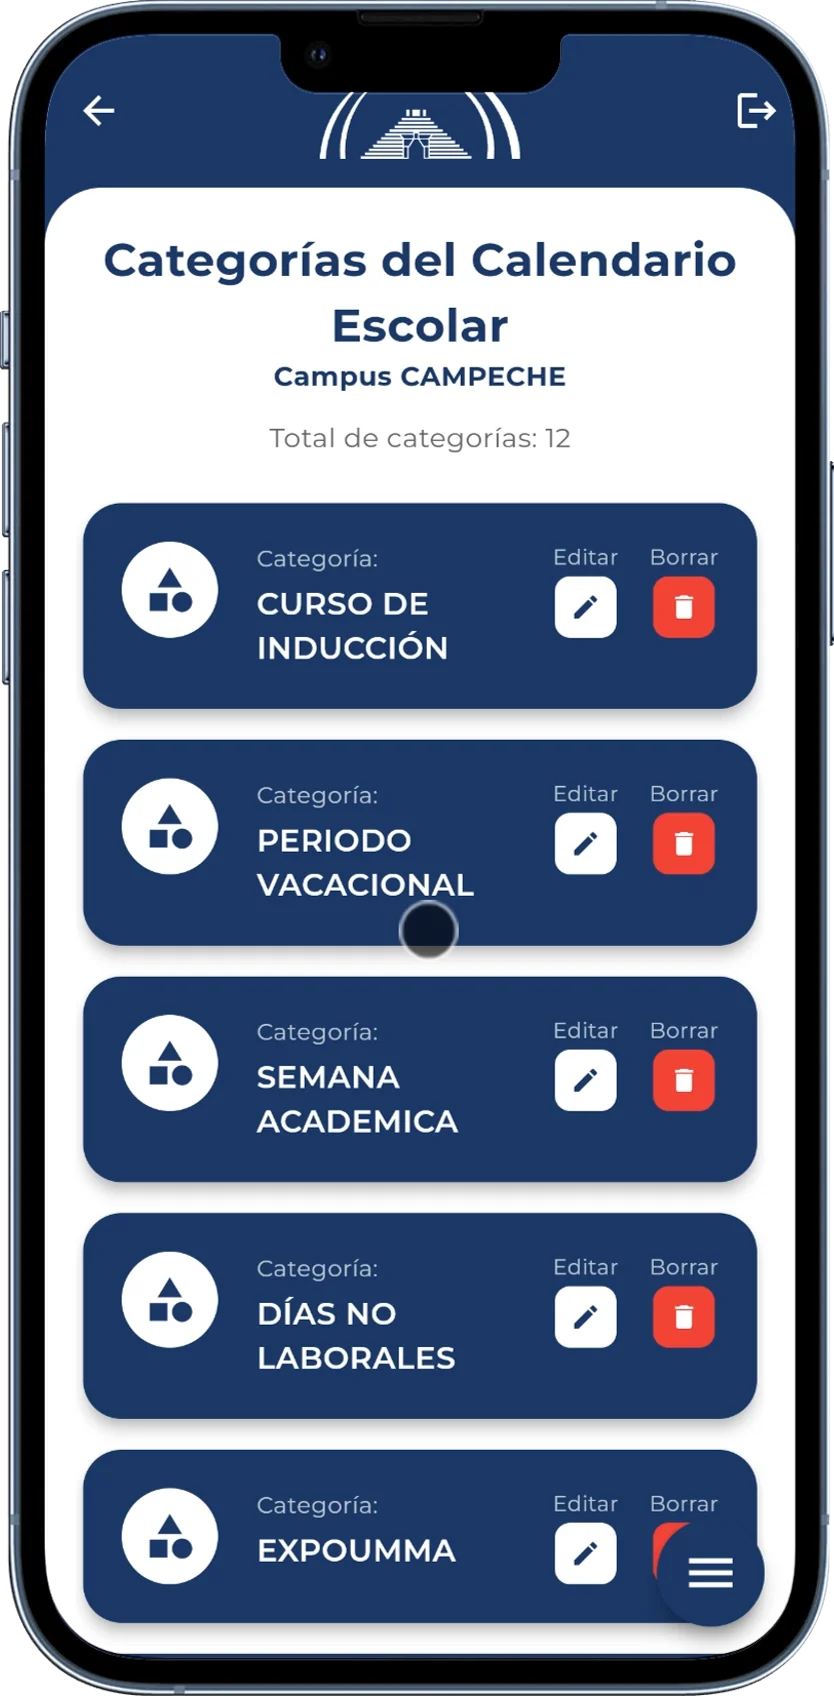
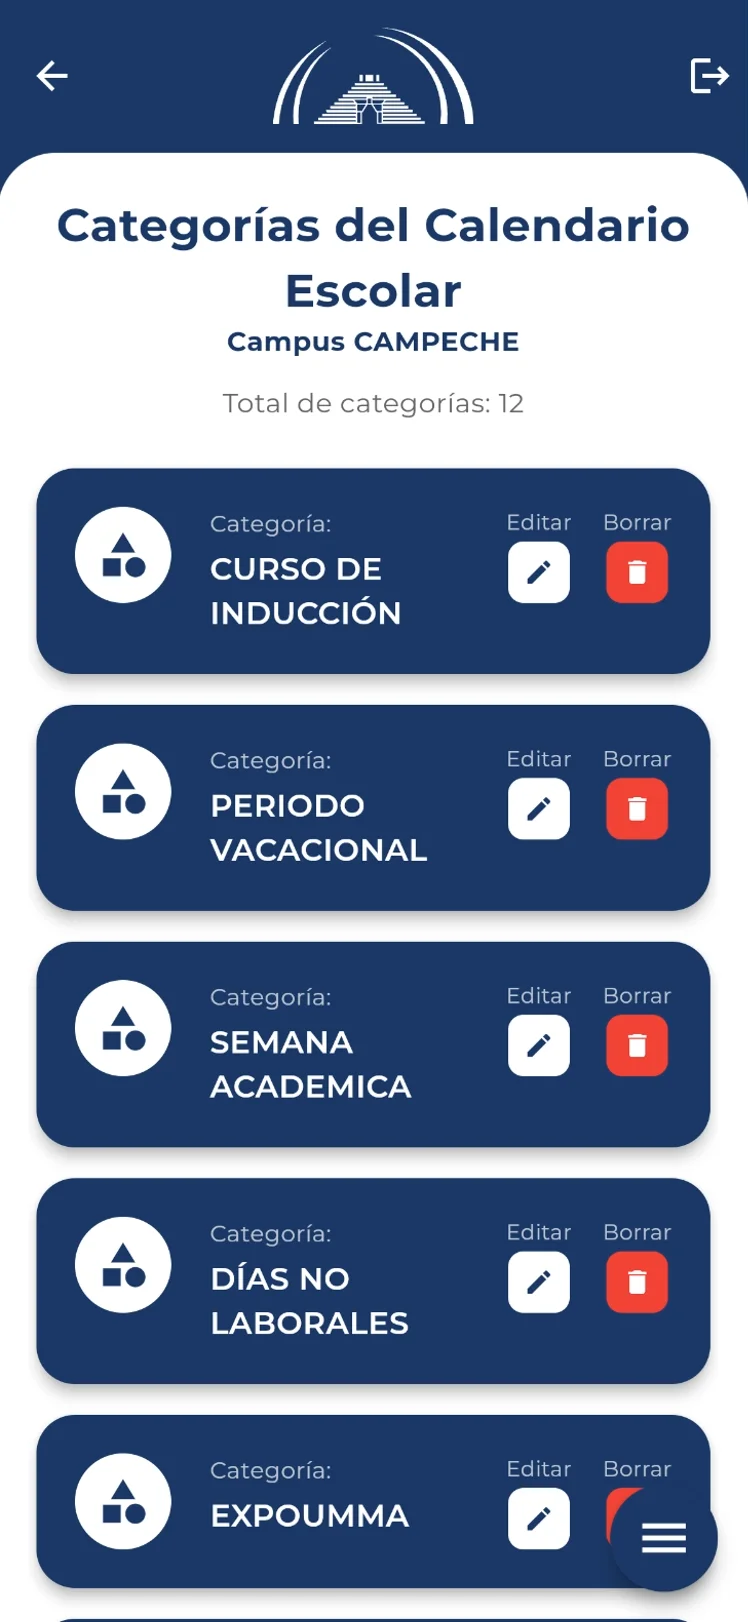
Nuevo modulo

diff --git a/docs/Administrativos/Pase_Vehicular/Añadir_Editar.md b/docs/Administrativos/Pase_Vehicular/Añadir_Editar.md
@@ -3,3 +3,113 @@ title: Añadir/Editar
 hide_table_of_contents: true
 ---
 
+import React, { useState } from 'react';
+import IphoneWrapper from '@site/src/components/IphoneWrapper';
+
+export const ArrowSlider = () => {
+  const [index, setIndex] = useState(0);
+  
+  const media = [
+    { type: 'image', src: '/img/Pase Vehicular/AgregarPase.webp' },
+    { type: 'image', src: '/img/Pase Vehicular/AgregarPase1.webp' },
+
+  ];
+
+  const siguienteImagen = () => {
+    setIndex((prev) => (prev === media.length - 1 ? 0 : prev + 1));
+  };
+
+  const anteriorImagen = () => {
+    setIndex((prev) => (prev === 0 ? media.length - 1 : prev - 1));
+  };
+
+  const botonStyle = {
+    position: 'absolute',
+    top: '50%',
+    transform: 'translateY(-50%)',
+    backgroundColor: 'rgba(0, 0, 0, 0.5)',
+    color: 'white',
+    border: 'none',
+    width: '40px',
+    height: '40px',
+    borderRadius: '50%',
+    cursor: 'pointer',
+    display: 'flex',
+    alignItems: 'center',
+    justifyContent: 'center',
+    zIndex: 10,
+    transition: 'background-color 0.3s ease',
+  };
+
+  const FlechaIzquierda = () => (
+    <svg width="24" height="24" viewBox="0 0 24 24" fill="none" stroke="currentColor" strokeWidth="2" strokeLinecap="round" strokeLinejoin="round"><polyline points="15 18 9 12 15 6"></polyline></svg>
+  );
+
+  const FlechaDerecha = () => (
+    <svg width="24" height="24" viewBox="0 0 24 24" fill="none" stroke="currentColor" strokeWidth="2" strokeLinecap="round" strokeLinejoin="round"><polyline points="9 18 15 12 9 6"></polyline></svg>
+  );
+
+  return (
+    <div style={{ position: 'relative', width: '100%', overflow: 'hidden', borderRadius: '12px' }}>
+      
+      <button 
+        onClick={anteriorImagen} 
+        style={{ ...botonStyle, left: '10px' }}
+        aria-label="Anterior"
+      >
+        <FlechaIzquierda />
+      </button>
+
+      <IphoneWrapper>
+        <img 
+          src={media[index].src} 
+          style={{ width: '100%', height: '100%', objectFit: 'cover' }} 
+          alt="Contenido Cobranza" 
+        />
+      </IphoneWrapper>
+
+      <button 
+        onClick={siguienteImagen} 
+        style={{ ...botonStyle, right: '10px' }}
+        aria-label="Siguiente"
+      >
+        <FlechaDerecha />
+      </button>
+
+      <div style={{ position: 'absolute', bottom: '15px', left: '50%', transform: 'translateX(-50%)', display: 'flex', gap: '8px', zIndex: 10 }}>
+        {media.map((_, i) => (
+          <div key={i} style={{
+            width: '10px',
+            height: '10px',
+            borderRadius: '50%',
+            backgroundColor: i === index ? 'white' : 'rgba(255, 255, 255, 0.5)',
+          }}/>
+        ))}
+      </div>
+    </div>
+  );
+};
+
+<div style={{ display: 'grid', gridTemplateColumns: '1fr 300px', gap: '70px', paddingLeft: '50px', alignItems: 'start' }}>
+
+  <div> 
+
+# Añadir
+
+Este módulo detalla el procedimiento guiado para la **asignación formal de un pase vehicular** a los miembros de la comunidad universitaria. El flujo está optimizado para completarse en un par de pasos sencillos dentro del sistema:
+
+### Requisitos Previos y Flujo de Asignación
+
+* **Registro de Documentación Base:** Antes de iniciar la asignación, es indispensable haber cargado previamente en el sistema los datos validados de la **Identificación Oficial (INE)** y la **Tarjeta de Circulación** del vehículo.
+* **Selección del Rol Institucional:** Con la documentación registrada, se debe definir el **rol del usuario** dentro de la institución (Alumnos, Docentes o Administrativos) para aplicar los criterios y permisos correspondientes.
+* **Generación del Folio Único:** Al confirmar los datos y el rol, el sistema procesa la solicitud y **genera automáticamente un folio único**, vinculando formalmente la unidad al expediente del usuario.
+
+> **Propósito del Módulo:** Garantizar que ninguna unidad ingrese al campus sin la validación previa de documentos y la vinculación a un perfil activo dentro de la institución.
+
+</div>
+
+  <div style={{ width: '300px', position: 'sticky', top: '100px' }}>
+    <ArrowSlider />
+  </div>
+
+</div>

diff --git a/docs/Administrativos/Pase_Vehicular/Panel_Pase.md b/docs/Administrativos/Pase_Vehicular/Panel_Pase.md
@@ -4,5 +4,40 @@ pagination_next: Administrativos/Pase_Vehicular/index
 hide_table_of_contents: true
 ---
 import Link from '@docusaurus/Link';
+import PageLayout from '@site/src/components/PageLayout';
 
-En este apartado se vera como es creacion de los pases vehiculares mediante la solicitacion de su INE personal y su tarjeta de circulacion para asi poder darle de alta y asignarle su propio folio del pase, esto se hace mediante el apartado de <Link to="/docs/Administrativos/Pase_Vehicular/Añadir_Editar" className="link-destacado">Añadir/Crear</Link>, una vez agregado todos los datos, ya podremos visualizar cuales son todos los pases que hay, y si tiene sus documentos a manos y en orden
+<PageLayout>
+
+<div style={{ display: 'flex', flexWrap: 'wrap', gap: '40px', alignItems: 'start' }}>
+
+  {/* 1. IMAGEN PRIMERO: Esto hace que en celular se vea arriba */}
+  <div style={{ flex: '1 1 300px', order: 1 }}>
+    <img 
+      src="/img/Pase Vehicular/PanelPase.webp" 
+      alt="Lista de estudiantes" 
+      style={{ 
+        width: '100%', 
+        borderRadius: '40px',
+        boxShadow: '0 4px 12px rgba(0,0,0,0.15)',
+        marginTop: '20px'
+      }} 
+    />
+  </div>
+
+  {/* 2. TEXTO DESPUÉS: Esto hace que en celular quede abajo */}
+  <div style={{ flex: '2 1 400px', order: 2 }}>
+
+En este apartado se describe el proceso para la **emisión e inscripción de pases vehiculares**, garantizando la validación documental y el control estricto de accesos institucionales.
+
+Para completar el alta de un vehículo, es indispensable solicitar y validar la **Identificación Oficial (INE)** del solicitante y la **Tarjeta de Circulación** vigente de la unidad. El procedimiento se gestiona desde el módulo de <Link to="/docs/Administrativos/Pase_Vehicular/Añadir_Editar" className="link-destacado">Añadir / Crear</Link>, donde el sistema asigna automáticamente un **folio único e irrepetible** tras capturar la información requerida.
+
+Una vez registrado el vehículo, el panel general permite:
+* **Monitorear el inventario de pases:** Visualización completa de todas las unidades y usuarios dados de alta en el sistema.
+* **Verificación de estado documental:** Control y consulta rápida para confirmar que los expedientes cuenten con sus requisitos en orden y al día.
+
+> **Propósito del Módulo:** Centralizar la gestión vehicular para mantener un control riguroso de las entradas y salidas, previniendo la duplicación de folios, la pérdida de datos y asegurando la integridad del registro institucional.
+</div>
+
+</div>
+
+</PageLayout>

diff --git a/docs/Administrativos/Ciclo/Calendario.md b/docs/Administrativos/Ciclo/Calendario.md
@@ -5,6 +5,13 @@ hide_table_of_contents: true
 pagination_next: Administrativos/Ciclo/index
 ---
 
+import DualLayout from '@site/src/components/DualLayout';
+
+<DualLayout 
+  imageSrc="/img/Ciclo/CatCalendario.webp" 
+  altText="Agregar Servicio" 
+  stickyImage={true}
+>
 
 Para maximizar la claridad visual y la eficiencia en la consulta de fechas clave, el sistema permite crear y gestionar **Categorías Personalizadas**. Esta funcionalidad permite organizar los eventos del calendario mediante etiquetas y colores distintivos, facilitando la identificación rápida de periodos críticos.
 
@@ -31,3 +38,5 @@ La gestión de estas categorías es sencilla y directa:
 * **Visibilidad Inmediata:** Al asignar colores distintos, el calendario se convierte en un mapa visual intuitivo donde el usuario puede distinguir, con un solo vistazo, el tipo de evento que está ocurriendo en una fecha determinada.
 * **Comprensión del Ciclo:** Reduce la carga cognitiva al estandarizar la información, ayudando tanto a docentes como a administrativos a ubicar rápidamente los tiempos del ciclo escolar.
 * **Personalización:** Adaptabilidad total a las necesidades de la institución, permitiendo crear etiquetas según las políticas internas de comunicación.
+
+</DualLayout>

diff --git a/docs/Administrativos/Pase_Vehicular/index.md b/docs/Administrativos/Pase_Vehicular/index.md
@@ -9,7 +9,7 @@ pagination_prev: null
     return (
       <>
       <AdminCard title="Añadir / Editar" iconName="Add_Box.png" link="./Añadir_Editar" />
-      <AdminCard title="Panel Pase" iconName="Vehicle.png" link="./Añadir_Editar" />
+      <AdminCard title="Panel Pase" iconName="Vehicle.png" link="./Panel_Pase" />
       </>
     );
   })()}
